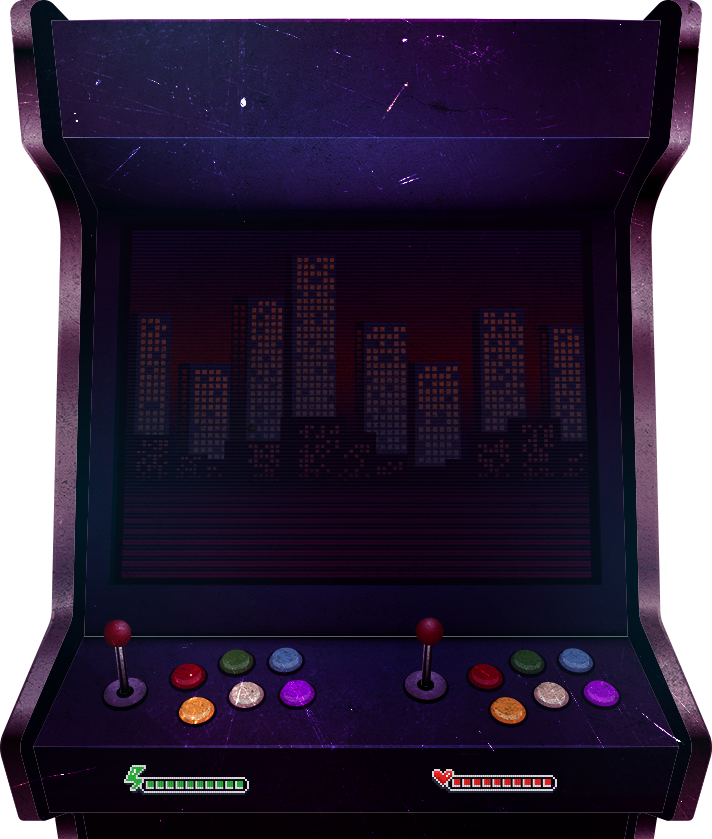
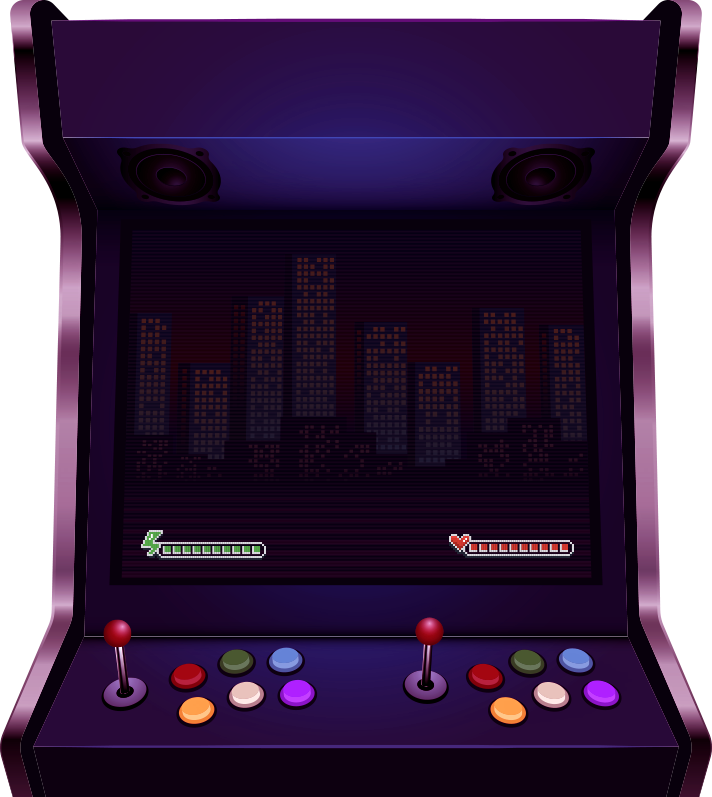
commit

diff --git a/src/components/CarouselSection/CarouselSection.js b/src/components/CarouselSection/CarouselSection.js
@@ -19,84 +19,60 @@ export const CarouselSection = () => {
           <div className="item wow fadeInUp" data-wow-delay=".25s">
             <div className="nft_coll">
               <div className="nft_wrap">
-                <a href="">
-                  <img src={image1} className="" alt="" />
-                </a>
+                <img src={image1} className="" alt="" />
               </div>
               <div className="nft_coll_info" style={{ paddingTop: "20px" }}>
-                <a href="">
-                  <h4>Comming Soon</h4>
-                </a>
+                <h4>Comming Soon</h4>
               </div>
             </div>
           </div>
           <div className="item wow fadeInUp" data-wow-delay=".75s">
             <div className="nft_coll">
               <div className="nft_wrap">
-                <a href="">
-                  <img src={image1} alt="" />
-                </a>
+                <img src={image1} alt="" />
               </div>
               <div className="nft_coll_info" style={{ paddingTop: "20px" }}>
-                <a href="">
-                  <h4>Comming Soon</h4>
-                </a>
+                <h4>Comming Soon</h4>
               </div>
             </div>
           </div>
           <div className="item wow fadeInUp" data-wow-delay="1s">
             <div className="nft_coll">
               <div className="nft_wrap">
-                <a href="">
-                  <img src={image1} alt="" />
-                </a>
+                <img src={image1} alt="" />
               </div>
               <div className="nft_coll_info" style={{ paddingTop: "20px" }}>
-                <a href="">
-                  <h4>Comming Soon</h4>
-                </a>
+                <h4>Comming Soon</h4>
               </div>
             </div>
           </div>
           <div className="item">
             <div className="nft_coll">
               <div className="nft_wrap">
-                <a href="">
-                  <img src={image1} alt="" />
-                </a>
+                <img src={image1} alt="" />
               </div>
               <div className="nft_coll_info" style={{ paddingTop: "20px" }}>
-                <a href="">
-                  <h4>Comming Soon</h4>
-                </a>
+                <h4>Comming Soon</h4>
               </div>
             </div>
           </div>
           <div className="item">
             <div className="nft_coll">
               <div className="nft_wrap">
-                <a href="">
-                  <img src={image2} alt="" />
-                </a>
+                <img src={image2} alt="" />
               </div>
               <div className="nft_coll_info" style={{ paddingTop: "20px" }}>
-                <a href="">
-                  <h4>1987</h4>
-                </a>
+                <h4>1987</h4>
               </div>
             </div>
           </div>
           <div className="item">
             <div className="nft_coll">
               <div className="nft_wrap">
-                <a href="">
-                  <img src={image1} alt="" />
-                </a>
+                <img src={image1} alt="" />
               </div>
               <div className="nft_coll_info" style={{ paddingTop: "20px" }}>
-                <a href="">
-                  <h4>Comming Soon</h4>
-                </a>
+                <h4>Comming Soon</h4>
               </div>
             </div>
           </div>

diff --git a/src/components/NavbarSection/NavbarSection.js b/src/components/NavbarSection/NavbarSection.js
@@ -58,13 +58,15 @@ export const NavbarSection = () => {
       <div className="navbar-section" id="nav">
         <Navbar collapseOnSelect expand="lg" variant="dark">
           <Container>
-            <Navbar.Brand
-              href=""
-              className="wow fadeInLeftBig logo-img"
-              data-wow-delay=".50s"
+            {/* <Navbar.Brand */}
+            <div
+              // href=""
+              className="wow fadeInLeftBig"
+              data-wow-delay=".50s logo-img"
             >
               <img src={logo} alt="image" />
-            </Navbar.Brand>
+              {/* </Navbar.Brand> */}
+            </div>
             <Navbar.Toggle aria-controls="responsive-navbar-nav" />
             <Navbar.Collapse id="responsive-navbar-nav">
               <Nav className="me-auto">
@@ -155,7 +157,10 @@ export const NavbarSection = () => {
           </div>
 
           {/* </Link> */}
-          <div className="artboard-image-2 wow rotateIn " data-wow-delay=".50s">
+          <div
+            className="artboard-image-2 wow rotateIn "
+            data-wow-delay="1.50s"
+          >
             <img src={Artboard2} alt="image " />
           </div>
           <div

diff --git a/src/components/NavbarSection/NavbarSection.css b/src/components/NavbarSection/NavbarSection.css
@@ -164,19 +164,20 @@ ul.button-header li a:hover {
 }
 
 .arcade-image {
-  width: 31%;
+  width: 35%;
   height: auto;
   z-index: 0;
   margin: -45px auto 0px auto;
 }
 
 .artboard-image {
-  width: 32%;
+  width: 25%;
   position: absolute;
-  top: -34%;
-  right: 10px;
+  top: -25%;
+  right: 20px;
   z-index: -1;
 }
+
 .logo-img {
   transition: 0.3s;
 }
@@ -206,7 +207,7 @@ ul.button-header li a:hover {
   width: 4%;
   height: auto;
   position: absolute;
-  top: 15%;
+  top: 4%;
   left: 18%;
 }
 
@@ -241,7 +242,6 @@ ul.button-header li a:hover {
 .left-image h1 span {
   color: #fff;
 }
-
 
 .right-image h6 span {
   color: #fff;

diff --git a/src/components/EnterSection/EnterSection.css b/src/components/EnterSection/EnterSection.css
@@ -9,36 +9,8 @@ img {
 }
 
 .enter-box-image img {
-  width: 9%;
+  width: 12%;
   height: auto;
-}
-
-.enter-box {
-  /* position: relative; */
-  /* top: 50%;
-  left: 50%;
-  transform: translate(-50%, -50%);
-  text-align: center; */
-}
-
-.enter-box {
-  /* margin: 283px auto; */
-}
-
-.enter-box-image {
-  /* display: flex;
-  justify-content: center;
-  align-items: center;
-  width: 100%; */
-  /* height: 100vh; */
-}
-
-.enter-bg-image {
-  /* display: flex;
-  flex-direction: column;
-  justify-content: center;
-  align-items: center;
-  height: 100vh; */
 }
 
 .btn-enter {

diff --git a/src/components/BubbleGhost/BubbleGhost.css b/src/components/BubbleGhost/BubbleGhost.css
@@ -20,6 +20,7 @@
 
 .subheading-bubble h2 span {
   color: #ff0080 !important;
+  padding-right: 20px;
 }
 
 .subheading-bubble p {
@@ -34,20 +35,15 @@
   background-repeat: no-repeat;
   background-size: cover;
   width: 100%;
-  height: 700px;
-}
-
-.image-game {
-  width: 37%;
-  height: auto;
-  margin: 0px 169px 0px auto;
-  padding-top: 95px;
+  height: 670px;
 }
 
 video#myVideo {
   height: auto;
-  width: 100%;
+  width: 36%;
   margin: 0px auto;
+  padding-top: 92px;
+  display: block;
 }
 
 button.onpress {

diff --git a/src/components/CarouselSection/CarouselSection.css b/src/components/CarouselSection/CarouselSection.css
@@ -16,6 +16,14 @@
   font-weight: 700;
 }
 
+.nft_wrap img:hover {
+  transform: scale(1.1);
+}
+
+.nft_wrap img {
+  transition: 0.3s ease;
+}
+
 .owl-nav {
   display: none;
 }

diff --git a/src/components/RoadMapSection/RoadMapSection.css b/src/components/RoadMapSection/RoadMapSection.css
@@ -107,7 +107,7 @@ h1.head-img {
 div#roadimg-5 {
   width: 56%;
   position: absolute;
-  top: -76%;
+  top: -86%;
   right: 41px;
   z-index: 0;
 }
